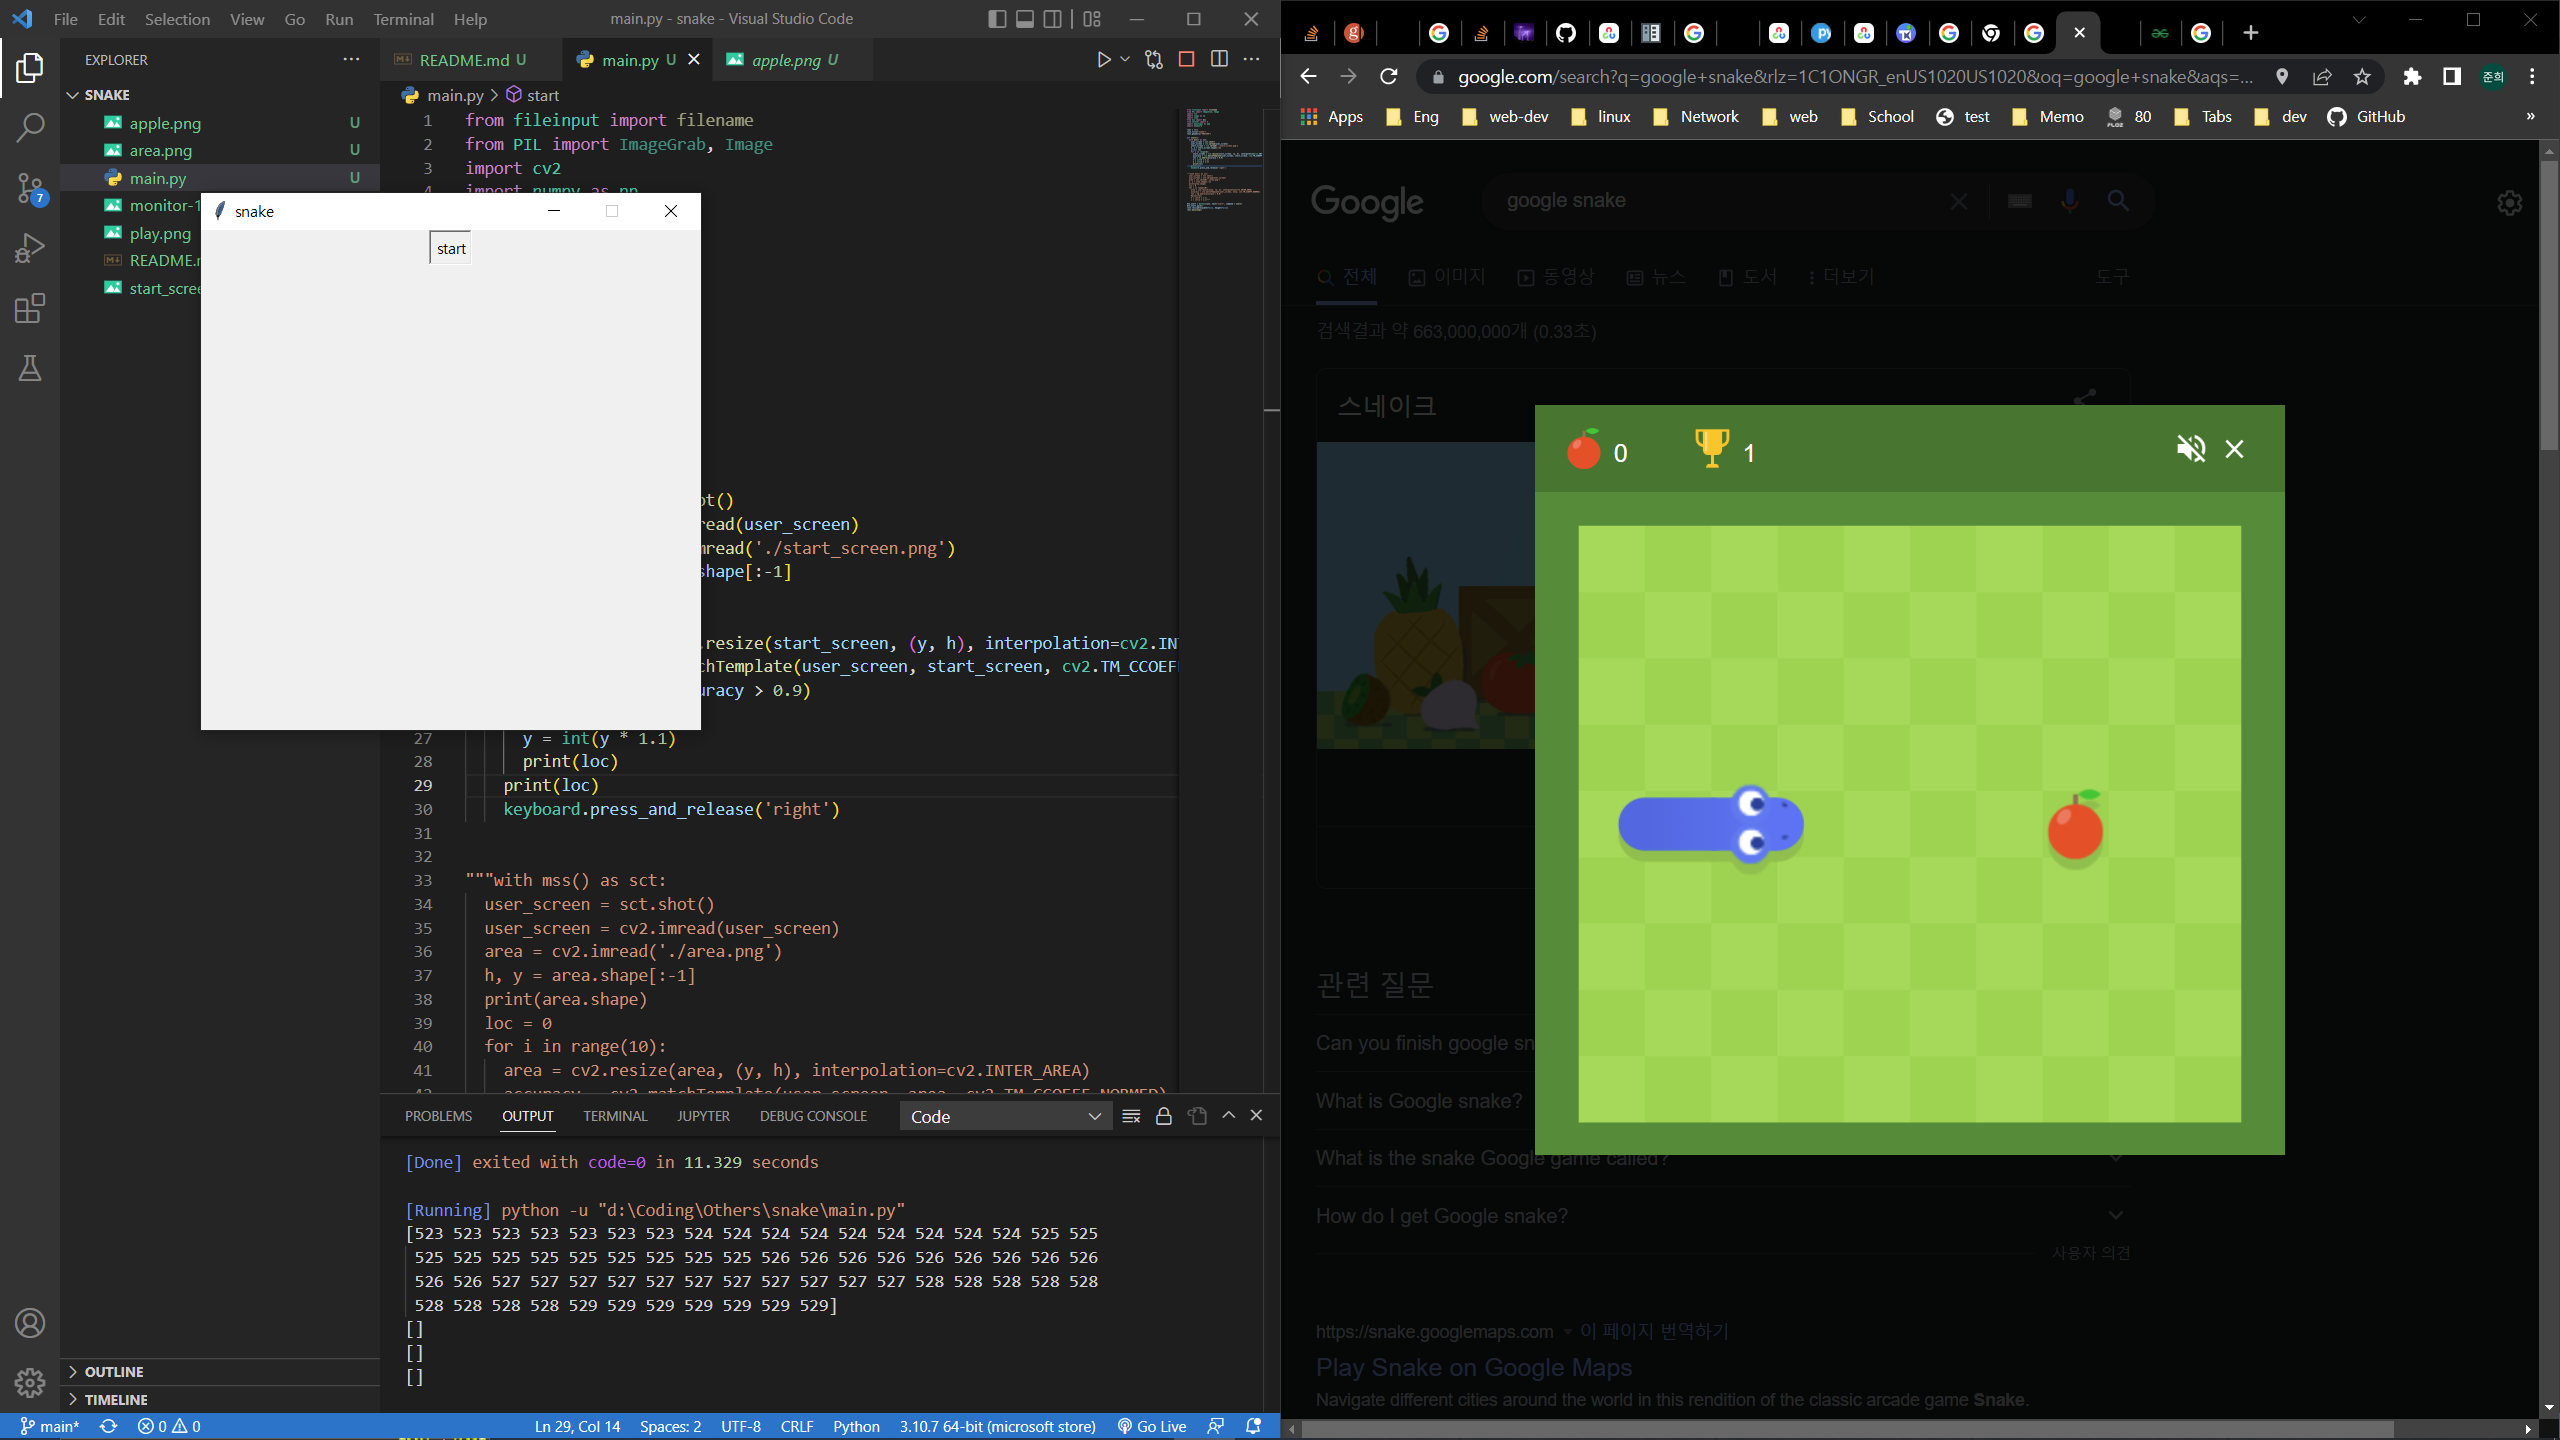
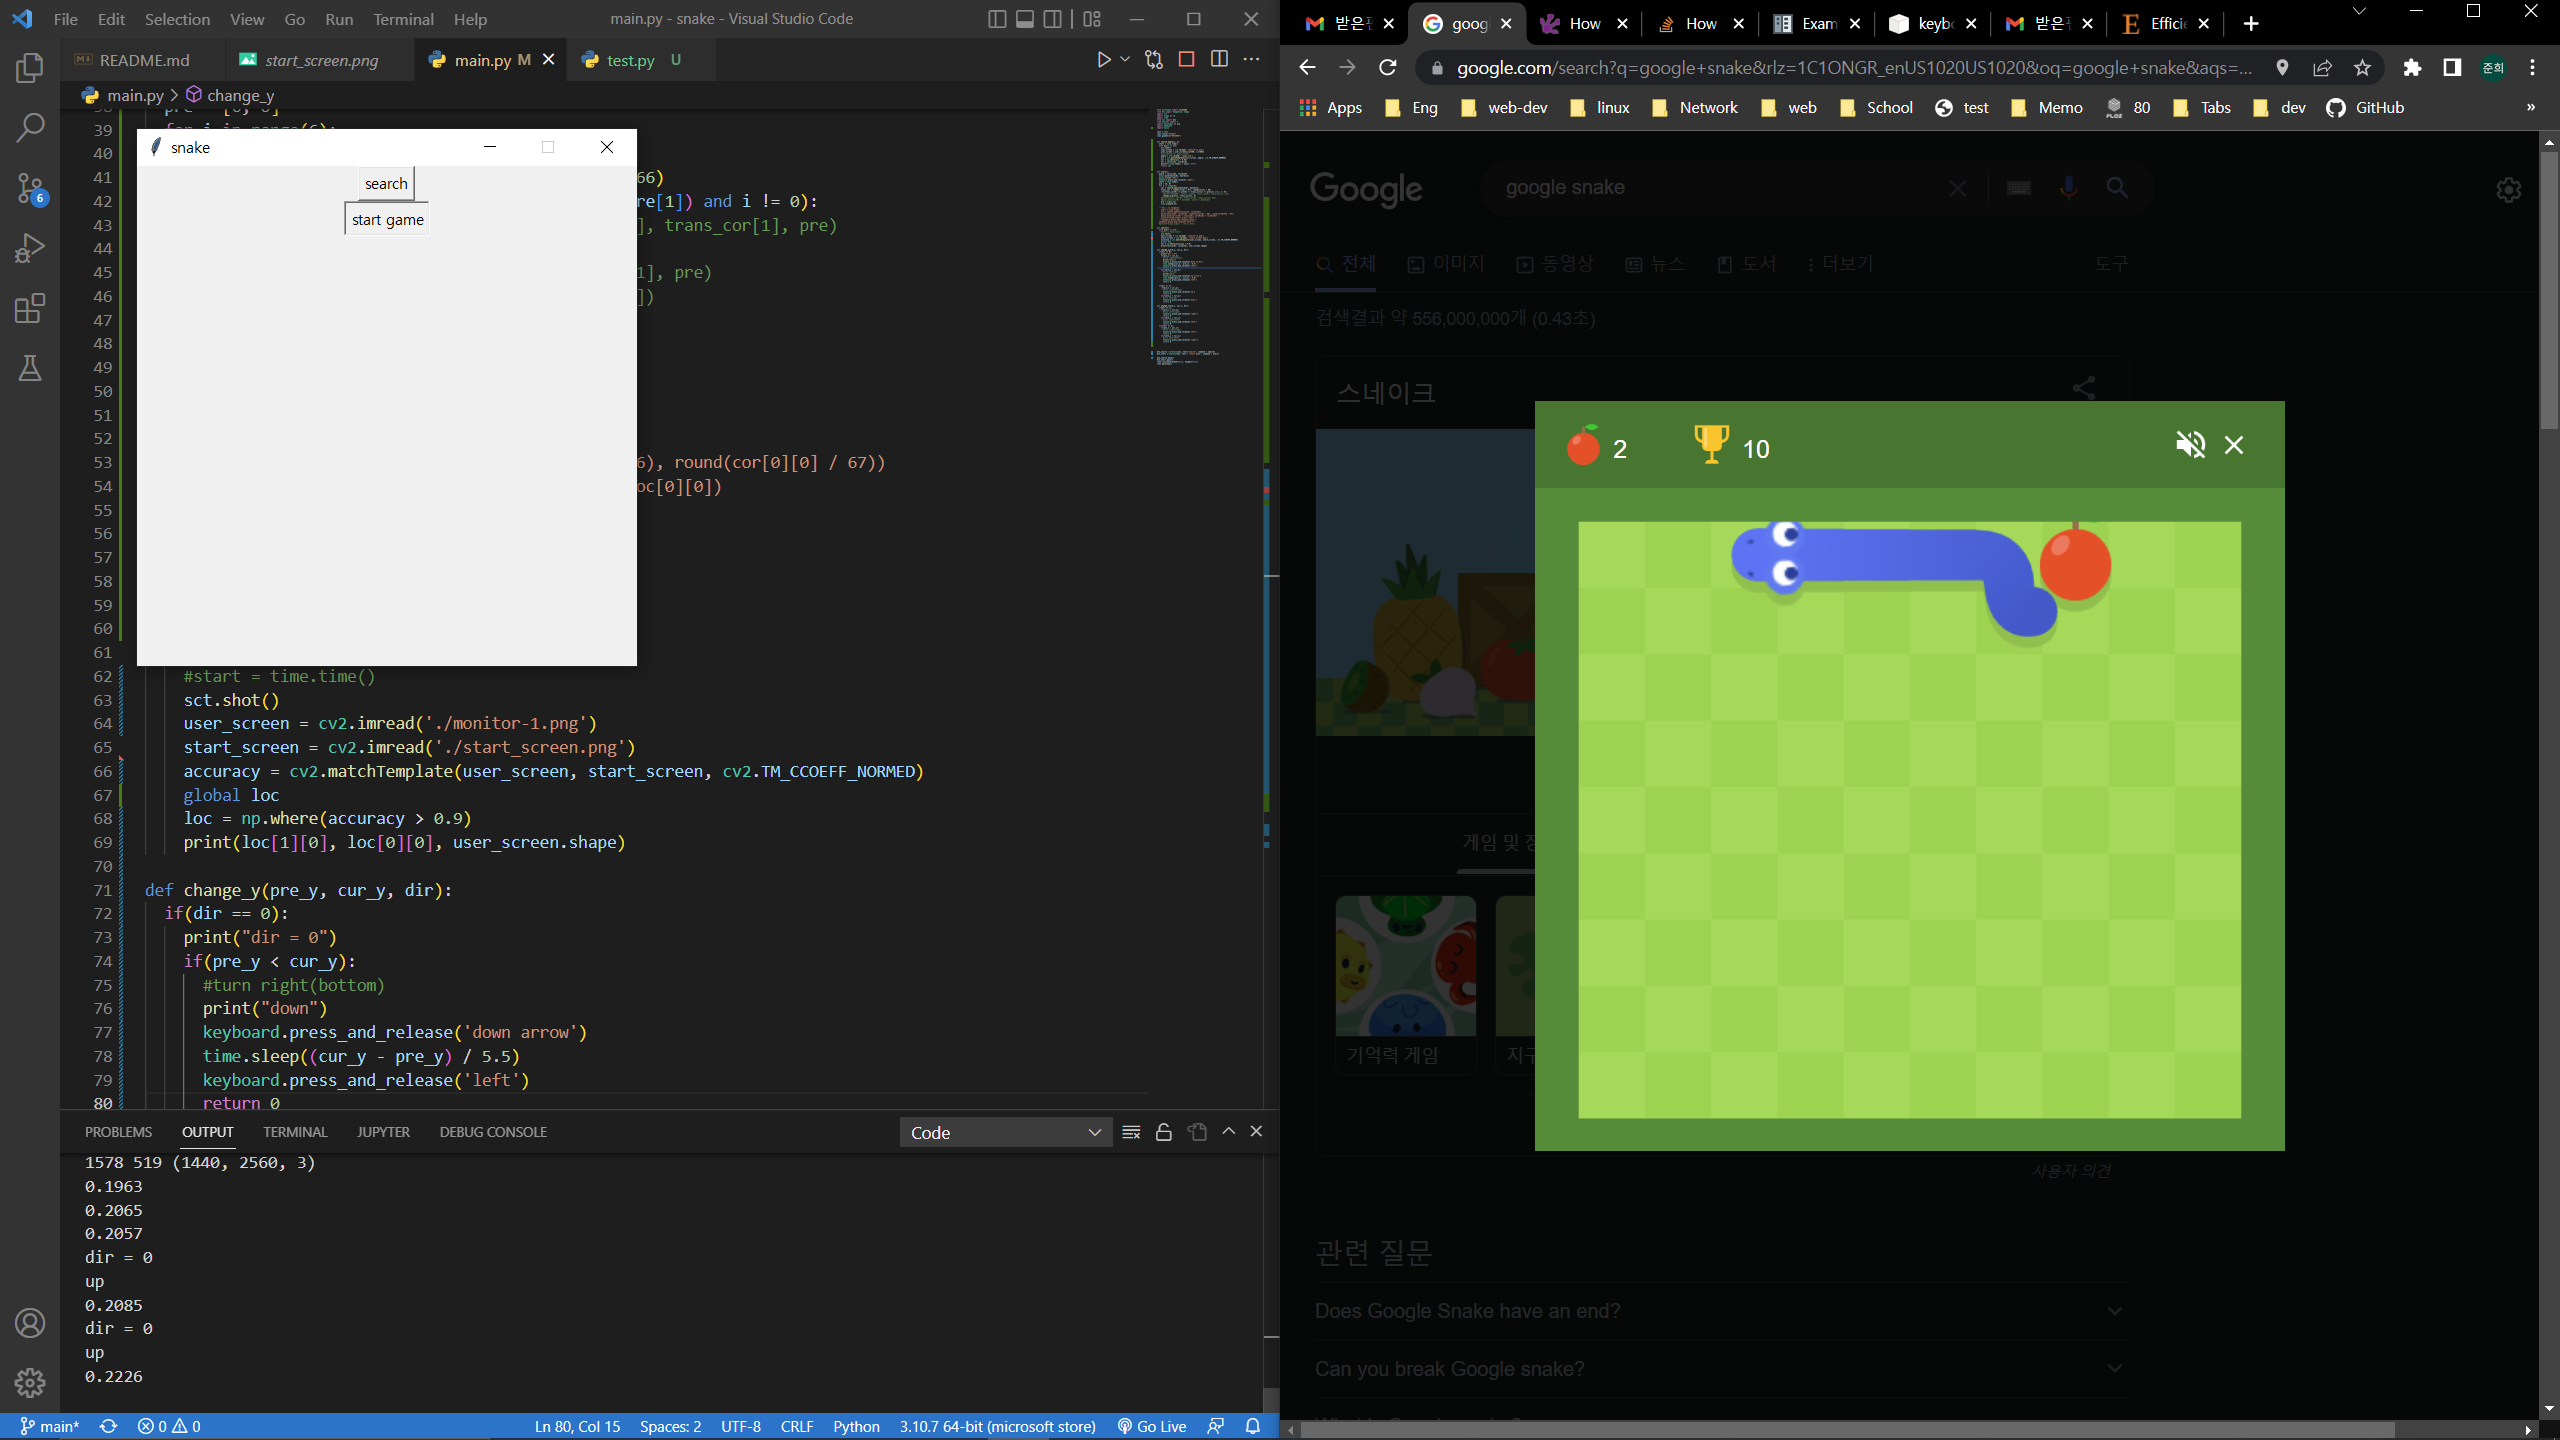
left&right(sleep 5.5s, 0.25s)

diff --git a/main.py b/main.py
@@ -7,45 +7,122 @@ from mss import mss
 from tkinter import *
 import pyautogui as pag
 import keyboard
+import mouse
 
 root = Tk()
 root.title("snake")
 root.geometry("500x500")
 
-def start():
+
+def search_apple(x, y):
+  start = time.time()
   with mss() as sct:
-    user_screen = sct.shot()
-    user_screen = cv2.imread(user_screen)
+    sct.shot()
+    user_screen = cv2.imread('./monitor-1.png')
+    user_screen = user_screen[y:y+600, x:x+660]
+    #cv2.imshow('d',user_screen)
+    apple = cv2.imread('./app3.png')
+    acc = cv2.matchTemplate(user_screen, apple, cv2.TM_CCOEFF_NORMED)
+    cor = np.where(acc > 0.92)
+    cor = cor[1][0], cor[0][0]
+    print(f"{time.time() - start:.4f}")
+    return cor
+
+
+def start():
+  board = loc[1][0], loc[0][0]
+  mouse.move(board[0], board[1])
+  mouse.click('left')
+  keyboard.press_and_release('right')
+  start = time.time()
+  pre = [0, 0]
+  for i in range(6):
+    cor = search_apple(board[0], board[1])
+    trans_cor = round(cor[0] / 67), round(cor[1] / 66)
+    if((trans_cor[0] != pre[0] or trans_cor[1] != pre[1]) and i != 0):
+      #print("changed", cor[1], cor[0], trans_cor[0], trans_cor[1], pre)
+      change_y(pre[1], trans_cor[1], 0)
+    #print(cor[1], cor[0], trans_cor[0], trans_cor[1], pre)
+    #mouse.move(cor[0] + board[0], cor[1] + board[1])
+    pre = trans_cor
+    time.sleep(0.25)
+
+  '''for i in range(3):
+    start = time.time()
+    cor = search_apple(loc[1][0], loc[0][0])
+    print(cor[1][0], cor[0][0], round(cor[1][0] / 66), round(cor[0][0] / 67))
+    mouse.move(cor[1][0] + loc[1][0], cor[0][0] + loc[0][0])
+    print(f"{time.time()-start:.4f}")'''
+  '''keyboard.press_and_release('down')
+  keyboard.press_and_release('left')'''
+  #print(f"{time.time() - start:.4f}")
+
+def search():
+  with mss() as sct:
+    #start = time.time()
+    sct.shot()
+    user_screen = cv2.imread('./monitor-1.png')
     start_screen = cv2.imread('./start_screen.png')
-    h, y = start_screen.shape[:-1]
+    accuracy = cv2.matchTemplate(user_screen, start_screen, cv2.TM_CCOEFF_NORMED)
     global loc
-    for i in range(3):
-      start_screen = cv2.resize(start_screen, (y, h), interpolation=cv2.INTER_AREA)
-      accuracy = cv2.matchTemplate(user_screen, start_screen, cv2.TM_CCOEFF_NORMED)
-      loc = np.where(accuracy > 0.9)
-      h = int(h * 1.1)
-      y = int(y * 1.1)
-      print(loc)
-    print(loc)
-    keyboard.press_and_release('right')
-
-
-"""with mss() as sct:
-  user_screen = sct.shot()
-  user_screen = cv2.imread(user_screen)
-  area = cv2.imread('./area.png')
-  h, y = area.shape[:-1]
-  print(area.shape)
-  loc = 0
-  for i in range(10):
-    area = cv2.resize(area, (y, h), interpolation=cv2.INTER_AREA)
-    accuracy = cv2.matchTemplate(user_screen, area, cv2.TM_CCOEFF_NORMED)
     loc = np.where(accuracy > 0.9)
-    #print(loc)
-    h = int(h * 1.1)
-    y = int(y * 1.1)"""
+    print(loc[1][0], loc[0][0], user_screen.shape)
+    
+def change_y(pre_y, cur_y, dir):
+  if(dir == 0):
+    print("dir = 0")
+    if(pre_y < cur_y):
+      #turn right(bottom)
+      print("down")
+      keyboard.press_and_release('down arrow')
+      time.sleep((cur_y - pre_y) / 5.5)
+      keyboard.press_and_release('left')
+      return 0
+    elif(pre_y > cur_y):
+      #turn left(up)
+      print("up")
+      keyboard.press_and_release('up arrow')
+      time.sleep((pre_y - cur_y) / 5.5)
+      keyboard.press_and_release('left')
+      return 0
 
-btn_start = Button(root, text="start", command = start)
+  if(dir == 2):
+    if(pre_y < cur_y):
+      #turn right(bottom)
+      keyboard.press_and_release('up')
+      return 0
+    elif(pre_y > cur_y):
+      #turn left(up)
+      keyboard.press_and_release('down')
+      return 0
+
+def change_x(pre_x, cur_x, dir):
+  if(dir == 1):
+    if(pre_x < cur_x):
+      #turn left(right)
+      keyboard.press_and_release('right')
+      return 0
+    elif(pre_x > cur_x):
+      #turn right(left)
+      keyboard.press_and_release('left')
+      return 0
+  elif(dir == 3):
+    if(pre_x < cur_x):
+      #turn right(right)
+      keyboard.press_and_release('left')
+      return 0
+    elif(pre_x > cur_x):
+      #turn left(left)
+      keyboard.press_and_release('right')
+      return 0
+
+
+
+
+btn_search = Button(root, text="search", command = search)
+btn_start = Button(root, text = "start game", command = start)
+
+btn_search.pack()
 btn_start.pack()
 root.resizable(width=False, height=False)
 root.mainloop()

diff --git a/test.py b/test.py
@@ -1,0 +1,27 @@
+from fileinput import filename
+from PIL import ImageGrab, Image
+import cv2
+import numpy as np
+import time
+from mss import mss
+from tkinter import *
+import pyautogui as pag
+import keyboard
+import mouse
+
+"""def accuracy():
+  with mss() as sct:
+    monitor = {"top": 500, "left": 1500, "width": 500, "height": 500}
+    output = "scp-{top}x{left}_{width}x{height}.png".format(**monitor)
+    img = sct.grab(monitor)
+    sct.shot()
+    user_screen = cv2.imread('./monitor-1.png')
+    apple = cv2.imread('./apple.png')
+    acc = cv2.matchTemplate(user_screen, apple, cv2.TM_CCOEFF_NORMED)
+    cor = np.where(acc > 0.6)
+    return cor"""
+keyboard.press_and_release('down')
+
+"""print(accuracy(), accuracy()[0][0])
+mouse.move(accuracy()[1][0], accuracy()[0][0])"""
+mouse.move(0, 0)
